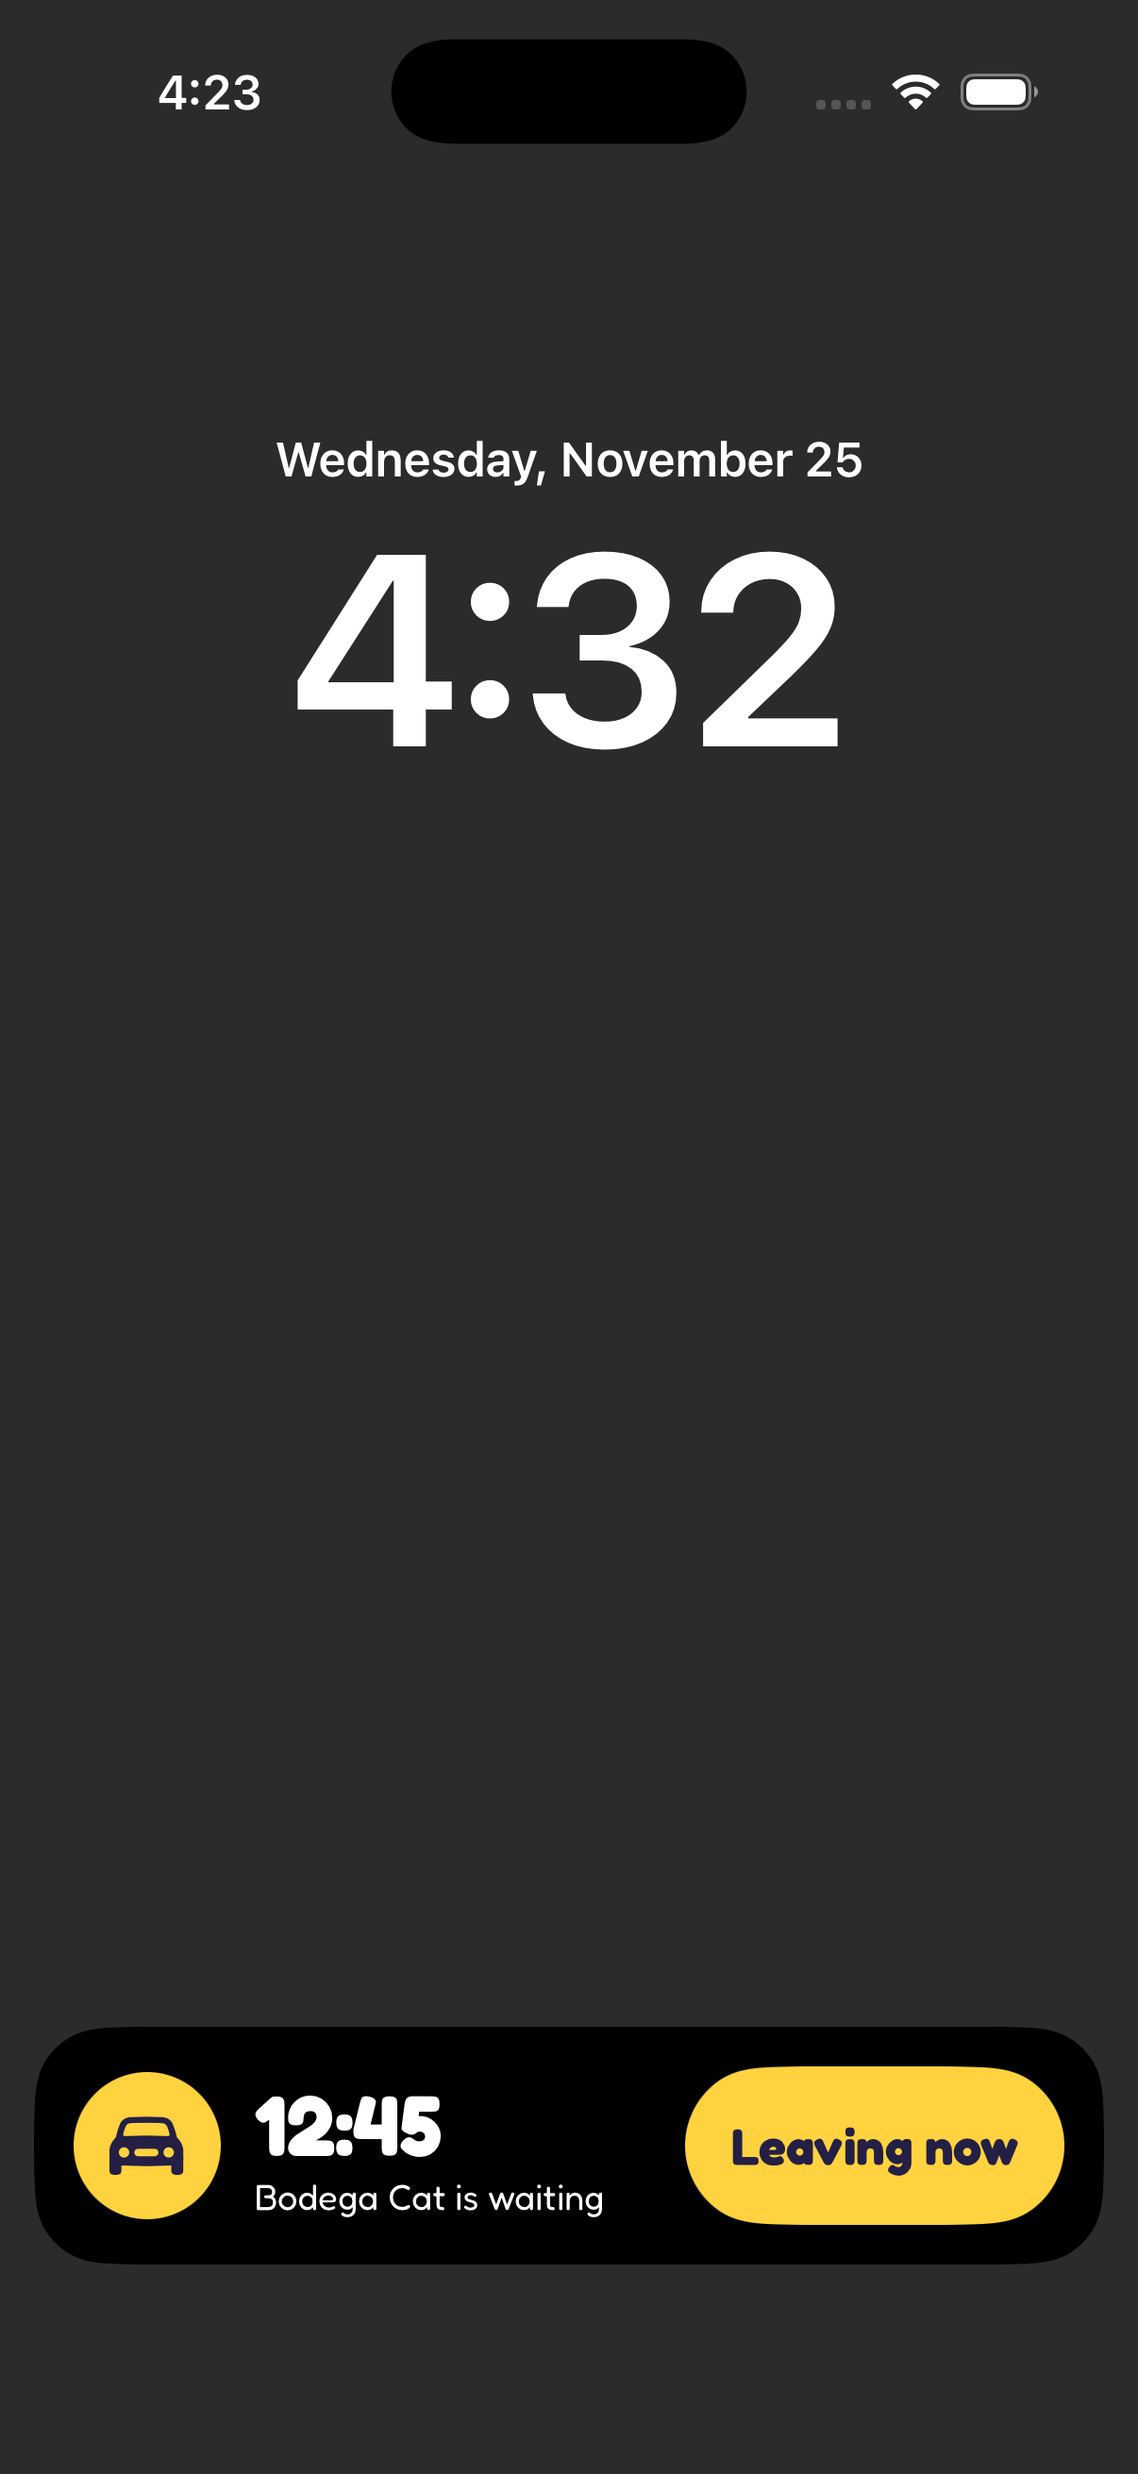
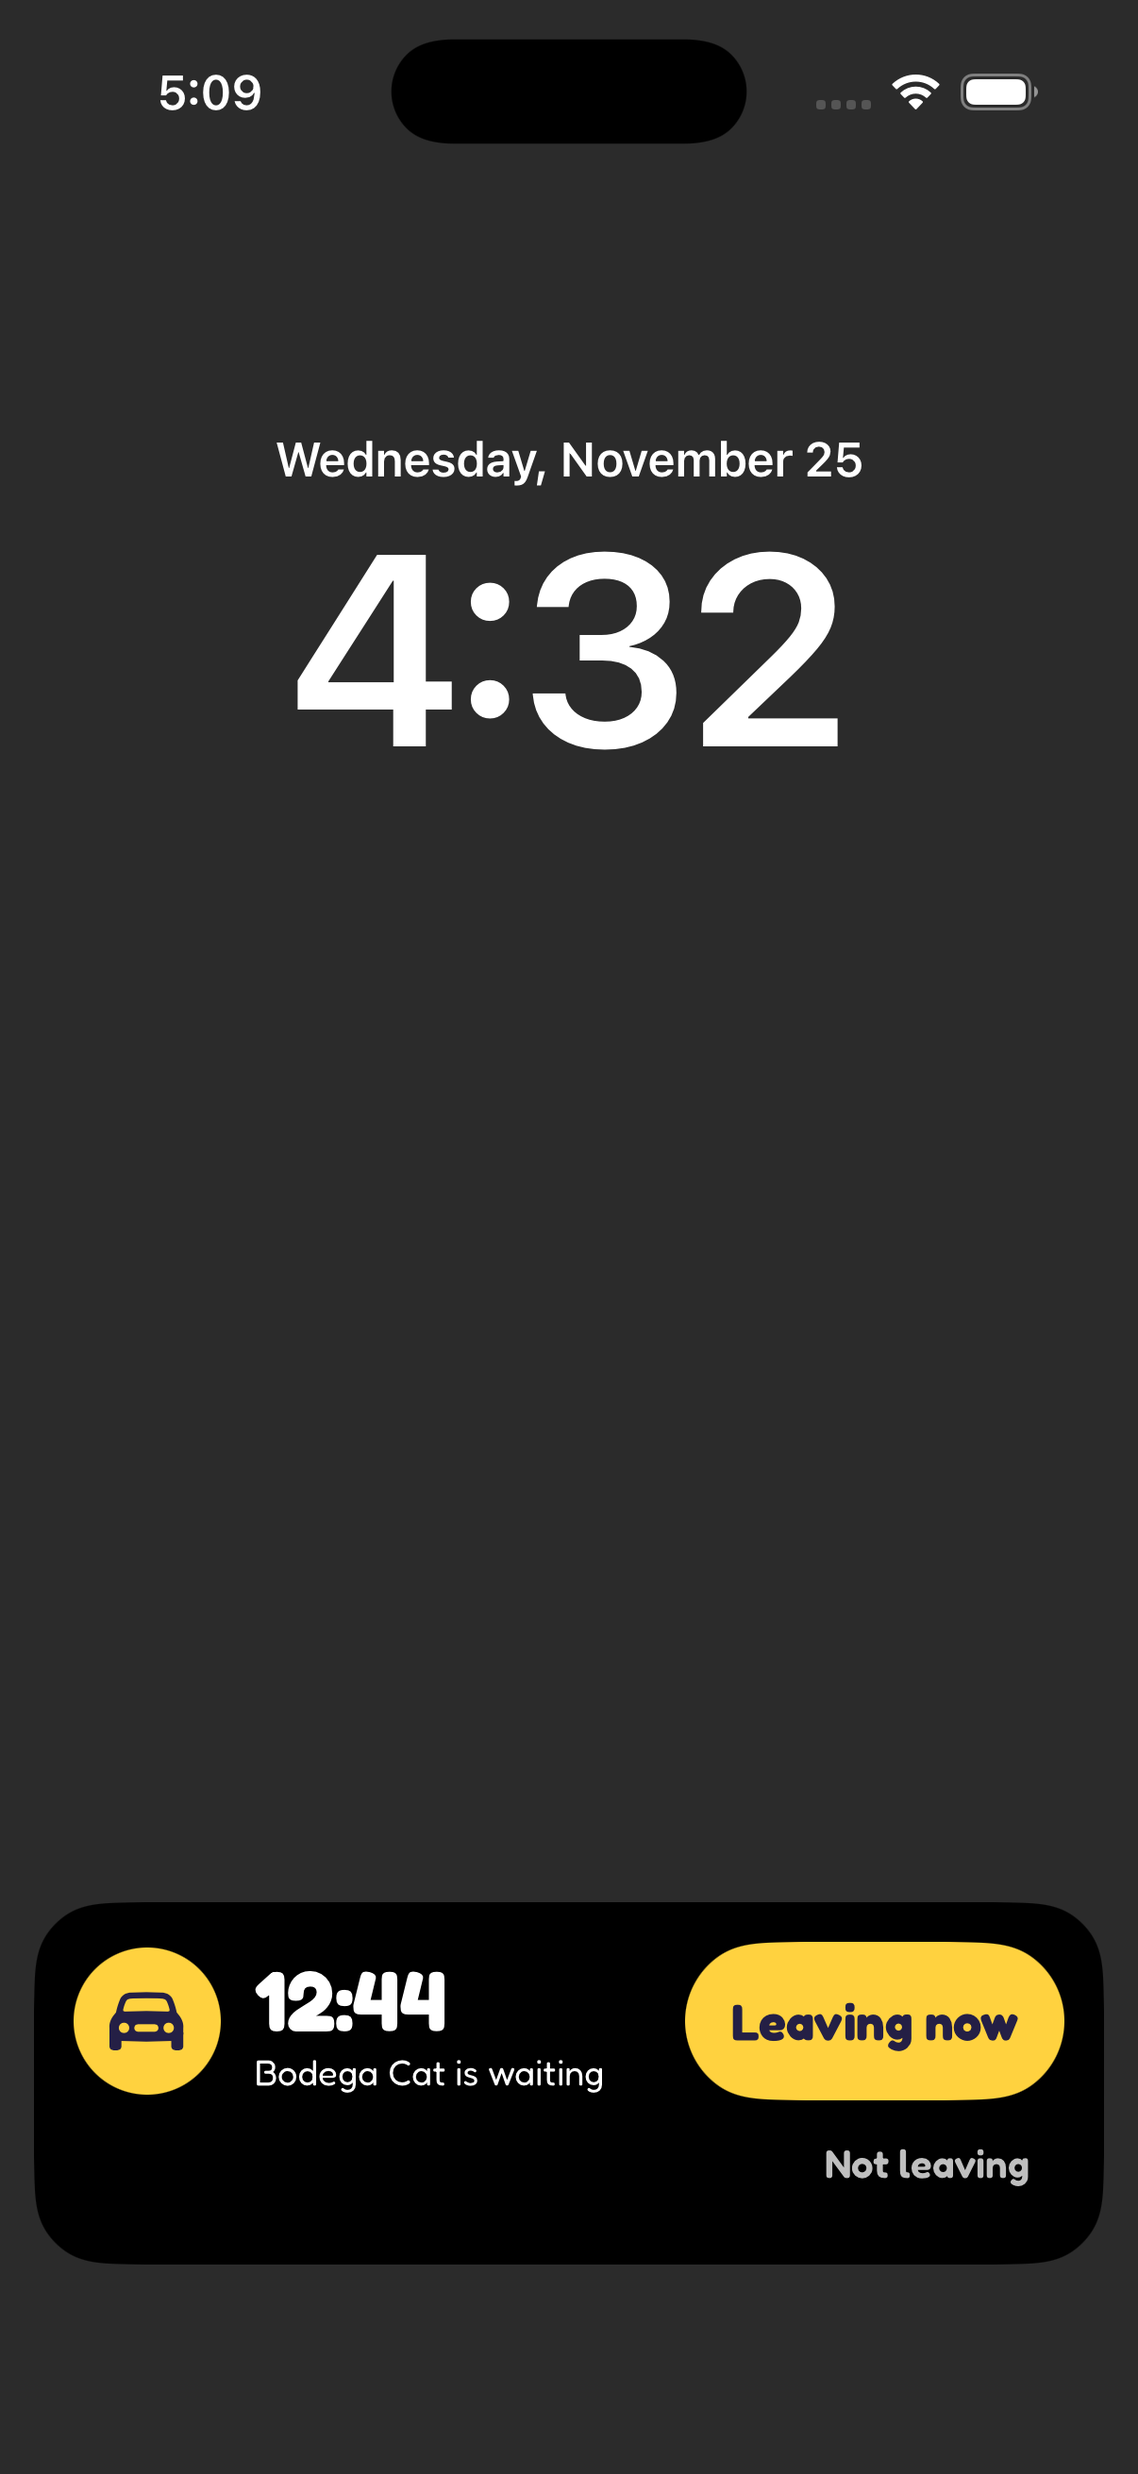
fix(ios): Stoop Phase 5b QA follow-ups (flag on only) (#211)
* fix(ios): Stoop Phase 5b QA follow-ups (flag on only)

Clip reminder copy true on every path, 'Remind me once', Stoop park-reminder
category wins over the address category, expanded island keeps Not leaving.

Claude-Session: https://claude.ai/code/session_01UjsLLE6XkkjF3CGfnhzwHR

* docs(qa): PR #211 Stoop Phase 5b follow-ups QA report

Claude-Session: https://claude.ai/code/session_01UjsLLE6XkkjF3CGfnhzwHR

---------

Changed region(s): [[0.0307, 0.7414, 0.9818, 0.9268], [0.1227, 0.0309, 0.2148, 0.0618]]

diff --git a/ios/WePark/WeParkTests/StoopPhase5bClipTests.swift b/ios/WePark/WeParkTests/StoopPhase5bClipTests.swift
@@ -110,8 +110,33 @@ final class StoopPhase5bClipTests: XCTestCase {
         XCTAssertEqual(WPClipCopy.chipTitle(.minutes(10)), "About 10 min")
         XCTAssertEqual(WPClipCopy.chipTitle(.minutes(60)), "About 1 hour")
         XCTAssertEqual(WPClipCopy.tell(name: "Bodega Cat"), "Tell Bodega Cat")
-        XCTAssertEqual(WPClipCopy.reminderOnly, "That's the only notification you'll get.")
+        XCTAssertEqual(WPClipCopy.allowReminder, "Remind me once")
         XCTAssertEqual(WPClipCopy.reminderTitle(around: "4:45"), "Still leaving around 4:45?")
         XCTAssertFalse(WPClipCopy.thanksTitle.contains("!"))
+    }
+
+    // MARK: Reminder copy matches the reminder plan
+
+    func testReminderCopy_isTrueForEveryPath() {
+        let copy = WPClipCopy.reminderOnly
+        XCTAssertTrue(copy.contains("one reminder"))
+        XCTAssertTrue(copy.contains("5 more min"), "the snooze reminder must be disclosed")
+        XCTAssertTrue(copy.contains("says thanks"), "the backend thanks alert must be disclosed")
+        XCTAssertFalse(copy.lowercased().contains("only notification"))
+        XCTAssertTrue(WPClipCopy.snoozeHint.contains("reminds you again"))
+    }
+
+    func testReminderPlan_isOneReminder_andSnoozeReplacesIt() {
+        let id = UUID()
+        let now = Date(timeIntervalSince1970: 1_800_000_000)
+        let leave = now.addingTimeInterval(20 * 60)
+        let first = HandoffReminderPlan.plan(stoop: true, passID: id, name: "Bodega Cat", leaveAt: leave, expiresAt: leave.addingTimeInterval(15 * 60), now: now)
+        XCTAssertEqual(first.count, 1, "copy says one reminder")
+        // "5 more min": the controller reschedules for leave + 5 min. Same identifier, so it replaces the
+        // pending one; a snooze after the first fired is the one extra reminder the copy discloses.
+        let later = leave.addingTimeInterval(5 * 60)
+        let snoozed = HandoffReminderPlan.plan(stoop: true, passID: id, name: "Bodega Cat", leaveAt: later, expiresAt: later.addingTimeInterval(15 * 60), now: now)
+        XCTAssertEqual(snoozed.count, 1)
+        XCTAssertEqual(snoozed.first?.identifier, first.first?.identifier)
     }
 }

diff --git a/ios/WePark/WePark/DesignSystem/WPPhase5bActivityShowcase.swift b/ios/WePark/WePark/DesignSystem/WPPhase5bActivityShowcase.swift
@@ -14,6 +14,7 @@
 //
 
 #if DEBUG
+import ActivityKit
 import SwiftUI
 
 struct WPPhase5bActivityShowcase: View {
@@ -27,8 +28,19 @@ struct WPPhase5bActivityShowcase: View {
 
     private static var window: UIWindow?
 
+    /// `-wp5bActivity real`: starts a REAL counting Live Activity (the system renders the lock screen and
+    /// the Dynamic Island with `wpDynamicIsland`), so expanded-island height can be measured on a
+    /// simulator instead of approximated. Only the flag-on build draws the Stoop layout.
+    private static func startRealActivity() {
+        guard ActivityAuthorizationInfo().areActivitiesEnabled else { return }
+        let attributes = SpotPassActivityAttributes(alias: "Bodega Cat", glyph: "bodega_cat", isClip: false)
+        let state = WPActivityState(phase: .counting, leaveAt: Date.now.addingTimeInterval(12 * 60 + 48), startedAt: Date.now, passID: UUID().uuidString.lowercased())
+        _ = try? Activity.request(attributes: attributes, content: ActivityContent(state: state, staleDate: nil), pushType: nil)
+    }
+
     var body: some View {
         Color.clear.allowsHitTesting(false).onAppear {
+            if name == "real" { Self.startRealActivity(); return }
             guard Self.window == nil,
                   let scene = UIApplication.shared.connectedScenes.compactMap({ $0 as? UIWindowScene }).first
             else { return }

diff --git a/ios/WePark/WeParkTests/StoopPhase5bActivityTests.swift b/ios/WePark/WeParkTests/StoopPhase5bActivityTests.swift
@@ -108,4 +108,22 @@ final class StoopPhase5bActivityTests: XCTestCase {
         // The shipping default follows the flag, which is false.
         XCTAssertTrue(NotificationCategoryRegistry.launchCategories(addressEnabled: false, spotPassEnabled: false).isEmpty)
     }
+
+    // MARK: Category precedence (address-anchored parking on)
+
+    @MainActor
+    func testCategory_stoopWinsOverAddressCategory_soWalkThereSurvives() {
+        let stoop = NotificationScheduler.categoryIdentifier(stoop: true, hasVerifiedAddress: true)
+        XCTAssertEqual(stoop, WPParkReminderCopy.categoryID)
+        XCTAssertEqual(WPParkReminderCopy.category().actions.map(\.identifier), [WPParkReminderCopy.actionWalkThere])
+        // The Stoop category hides the body (and so the address) when previews are off.
+        XCTAssertFalse(WPParkReminderCopy.category().hiddenPreviewsBodyPlaceholder.isEmpty)
+        XCTAssertEqual(NotificationScheduler.categoryIdentifier(stoop: true, hasVerifiedAddress: false), WPParkReminderCopy.categoryID)
+    }
+
+    @MainActor
+    func testCategory_flagOffUnchanged() {
+        XCTAssertEqual(NotificationScheduler.categoryIdentifier(stoop: false, hasVerifiedAddress: true), NotificationScheduler.addressCategoryID)
+        XCTAssertNil(NotificationScheduler.categoryIdentifier(stoop: false, hasVerifiedAddress: false))
+    }
 }

diff --git a/ios/WePark/Shared/Stoop/WPClipCopy.swift b/ios/WePark/Shared/Stoop/WPClipCopy.swift
@@ -31,8 +31,15 @@ nonisolated enum WPClipCopy {
 
     static let reminderHeadline = "One reminder, when it's time"
     static let reminderSub = "It has a Leaving now button, so you can answer from the lock screen."
-    static let reminderOnly = "That's the only notification you'll get."
-    static let allowReminder = "Allow one reminder"
+    /// True on every path: the plan is one reminder (`HandoffReminderPlan.makeSingle`); "5 more min" is the
+    /// driver's own request for another one (`snoozeHint`); the backend sends a visible "Thanks, neighbor!"
+    /// alert to a clip driver when the neighbor says thanks. Do not reword this back to "the only
+    /// notification": it is false for those two paths.
+    static let reminderOnly = "We'll send one reminder before you leave. If you ask for 5 more min, we'll remind you again. If your neighbor says thanks, you'll see that too."
+    /// Read by VoiceOver on the countdown's "5 more min" button.
+    static let snoozeHint = "Gives you five more minutes and reminds you again"
+    /// There is no system permission prompt here (the clip never prompts); the button just keeps the reminder.
+    static let allowReminder = "Remind me once"
     static let skip = "Skip"
 
     /// B13 driver reminder title ("Still leaving around 4:45?"). The notification and the B11.3 preview share it.

diff --git a/ios/WePark/Shared/Stoop/WPClipScreens.swift b/ios/WePark/Shared/Stoop/WPClipScreens.swift
@@ -78,7 +78,7 @@ struct WPClipReminderView: View {
         WPClipPage(onBack: onBack) {
             WPClipHeadline(text: WPClipCopy.reminderHeadline)
             WPClipSubline(text: WPClipCopy.reminderSub)
-            // A preview of the single notification the clip will send.
+            // A preview of the reminder the clip will send.
             VStack(alignment: .leading, spacing: 2) {
                 Text(WPClipCopy.appName)
                     .font(WP.Font.fredoka(14, .medium, relativeTo: .caption))
@@ -324,7 +324,7 @@ struct WPClipCountdownView: View {
     private var buttons: some View {
         let layout = typeSize.isAccessibilitySize ? AnyLayout(VStackLayout(spacing: WP.Space.s3)) : AnyLayout(HStackLayout(spacing: WP.Space.s3))
         return layout {
-            WPClipOutlineButton(title: WPClipCopy.fiveMore, isDisabled: !canExtend || mode == .sending, hint: "Gives you five more minutes", action: onFiveMore)
+            WPClipOutlineButton(title: WPClipCopy.fiveMore, isDisabled: !canExtend || mode == .sending, hint: WPClipCopy.snoozeHint, action: onFiveMore)
             WPClipOutlineButton(
                 title: WPClipCopy.notLeavingShort, isDisabled: mode == .sending,
                 hint: "Cancels your pass. \(name) will not be told.", action: onNotLeaving

diff --git a/ios/WePark/WePark/Services/NotificationScheduler.swift b/ios/WePark/WePark/Services/NotificationScheduler.swift
@@ -492,7 +492,9 @@ final class NotificationScheduler {
         if AppConstants.addressAnchoredParkingEnabled,
            let sentence = ParkingAddressCopy.notificationSentence(car.address) {
             content.body += " " + sentence
-            content.categoryIdentifier = Self.addressCategoryID
+            if let category = Self.categoryIdentifier(stoop: AppConstants.designSystemV2Enabled, hasVerifiedAddress: true) {
+                content.categoryIdentifier = category
+            }
         }
 
         content.sound = .default
@@ -508,6 +510,14 @@ final class NotificationScheduler {
         }
 
         return content
+    }
+
+    /// The category for a reminder whose body carries a verified address. Under Stoop the Stoop category
+    /// wins: it has the "Walk there" action AND its own hidden-previews placeholder, so the address stays
+    /// off the lock screen exactly as the address category does. Flag off: the address category.
+    nonisolated static func categoryIdentifier(stoop: Bool, hasVerifiedAddress: Bool) -> String? {
+        if stoop { return WPParkReminderCopy.categoryID }
+        return hasVerifiedAddress ? addressCategoryID : nil
     }
 
     // MARK: - Address-anchored parking category

diff --git a/ios/WePark/Shared/SpotPass/Driver/HandoffReminders.swift b/ios/WePark/Shared/SpotPass/Driver/HandoffReminders.swift
@@ -54,8 +54,9 @@ nonisolated enum HandoffReminderPlan {
         return candidates.filter { $0.fireDate > now.addingTimeInterval(1) && $0.fireDate < expiresAt }
     }
 
-    /// Stoop (DECISIONS #7): the clip schedules exactly ONE reminder, matching the copy "That's the only
-    /// notification you'll get." It fires `singleLead` before `leave_at` ("Still leaving around 4:45?",
+    /// Stoop (DECISIONS #7): the clip schedules exactly ONE reminder, matching the copy "We'll send one
+    /// reminder before you leave" (`WPClipCopy.reminderOnly`, which also discloses the "5 more min" snooze
+    /// and the backend thanks alert). It fires `singleLead` before `leave_at` ("Still leaving around 4:45?",
     /// round-2 B13). A pass that leaves in under two minutes fires as soon as it can; "Now" (leave_at at
     /// or before now) schedules nothing, because that pass opens straight on the Time-to-go screen.
     static let singleLead: TimeInterval = 2 * 60

diff --git a/ios/WePark/Shared/Stoop/WPActivityViews.swift b/ios/WePark/Shared/Stoop/WPActivityViews.swift
@@ -213,7 +213,9 @@ func wpDynamicIsland<Wrapper: View>(
         }
         DynamicIslandExpandedRegion(.bottom) {
             if counting {
-                VStack(spacing: 0) {
+                // Side by side, not stacked: measured on a simulator, the expanded island (84-160 pt tall
+                // per the HIG) clipped a 52 pt pill + 44 pt link stack and dropped "Not leaving".
+                HStack(spacing: 4) {
                     wrap(.leavingNow, AnyView(WPActivityPill(title: WPActivityCopy.leavingNow, height: 52, fillsWidth: true)))
                     wrap(.notLeaving, AnyView(WPActivityQuietLink()))
                 }

diff --git a/docs/qa/pr211-stoop-phase5b-followups-qa.md b/docs/qa/pr211-stoop-phase5b-followups-qa.md
@@ -1,0 +1,40 @@
+# PR #211 Stoop Phase 5b follow-ups QA, 2026-11-26
+
+**Reviewed:** `fix/stoop-phase5b-followups` at `e4fe4061`, against `docs/qa/pr208-stoop-phase5b-clip-qa.md` and `docs/qa/pr209-stoop-phase5b-liveactivity-qa.md`
+**Verdict:** MERGE-WITH-FOLLOWUPS (no blockers)
+
+## Summary
+The four fixes are correct and contained: clip copy now matches the reminder plan, "Walk there" wins over the address category under Stoop, the counting island lays out side by side, and the DEBUG-only real-activity launcher is compiled out of Release. Backend untouched (no `supabase/` in the diff). On a throwaway merge of origin/main + #210 + #211: all 4 schemes build, full WePark suite 3135 tests, 1 skipped, 0 failures (`-parallel-testing-enabled NO -jobs 4`). I did not run the suite on #211 alone (load). One likely related defect remains in the time-to-go island layout (finding 1).
+
+## Checklist
+- [x] Clip copy true on every path: `WPClipCopy.reminderOnly` discloses one reminder, the user-requested "5 more min" reminder, and the neighbor thank-you. Cross-checked with code: `HandoffReminderPlan.makeSingle` yields exactly one reminder; `ClipFlowController.extendFiveMinutes` calls `scheduleReminders`, which goes through `plan(stoop:)` and `UNHandoffReminderScheduler.schedule`, which first calls `cancelAll(passID:)` and re-adds under the same `leaveIdentifier`, so no duplicate pending reminders (also pinned by a test). The thank-you alert is backend behavior, left untouched, and is only sent when a push token exists (reminders on), so the copy shown on the reminders-on screen is accurate. Button now "Remind me once" (no system prompt exists in the clip). VoiceOver hint on "5 more min" discloses the re-remind.
+- [x] Backend untouched: confirmed by diff.
+- [x] "Walk there" precedence: new pure `NotificationScheduler.categoryIdentifier(stoop:hasVerifiedAddress:)`; Stoop returns `wepark_park_reminder_v2` (has `figure.walk` action, `hiddenPreviewsBodyPlaceholder = "Parking reminder"`), so the verified address (appended to the body) is still hidden when previews are hidden. Category is registered when the flag is on (`NotificationCategoryRegistry` `stoopParkReminders`), and coordinates ride in `userInfo` under Stoop. Flag off: address category still set exactly as before (tests cover both).
+- [x] Island / lock screen height: builder's real-system island screenshot (reviewed, `docs/qa/assets/stoop-phase5b/activity-island-dark.png`) shows header, "Leaving now" pill and "Not leaving" together. Claimed ~152 pt island and ~128 pt lock screen, inside 84-160. I could not reproduce live: on my fresh simulator `-wp5bActivity real` did not surface an activity (the app launched slowly under load 100-200 and no island appeared), so the height numbers are the builder's, not independently measured.
+- [x] Wiring: "Leaving now" (`wrap(.leavingNow, ...)`) and "Not leaving" (`wrap(.notLeaving, ...)`) still go through the same wrappers (unchanged); pill 52 pt, link `minHeight: 44, minWidth: 96`, both at least 44 pt.
+- [x] `-wp5bActivity real`: `WPPhase5bActivityShowcase.swift` is wrapped in `#if DEBUG ... #endif` (including the `ActivityKit` import and `startRealActivity`), and its only call site in `ContentView` is inside `#if DEBUG`. Absent from Release by construction (no Release binary inspected).
+- [x] Flag-off identical to main: all changes are Stoop copy, flag-gated views, or `categoryIdentifier(stoop:false)` which returns the previous values. Clip copy lives in `Shared/Stoop` and is Stoop-only. Suite passes flag-off.
+
+## Findings
+
+### Blocking
+None.
+
+### Significant
+- **#1 (significant) `ios/WePark/Shared/Stoop/WPActivityViews.swift` (`wpDynamicIsland`, `.bottom` region, `layout == .timeToGo` branch):** this branch still stacks a 52 pt "Leaving now" pill over a row of two 44 pt pills (6 pt gap, about 102 pt) inside the expanded island. The PR's own measurement says the counting stack of 52 + 44 (96 pt) was already clipped and dropped "Not leaving"; the time-to-go stack is taller. Likely "5 more min" / "Not leaving" clip in the time-to-go expanded island (the phase where the driver most needs them). Not verified live (no island on my sim), so confirm with `-wp5bActivity real` plus a time-to-go state before ship. Owner `@ios-engineer`.
+
+### Minor
+- **#2 (minor) copy length:** `reminderOnly` is now three sentences in 15 pt muted on the clip reminder screen; confirm it still sits above the pinned buttons at AX sizes (not checked; clip showcase not run by me).
+- **#3 (minor, backend, logged):** the backend's "Thanks, neighbor!" keeps the exclamation mark the client retired (builder already noted this for `@backend-data`).
+- **#4 (minor) not verified:** island height measurements; Release binary string absence.
+
+## Smoke tests run
+- Build: WePark (build-for-testing), WeParkClip, ClipLiveActivities, WeParkLiveActivities all succeeded on the combined merge.
+- Full suite on combined merge: 3135 executed, 1 skipped, 0 failures.
+- Code review of clip flow controller, reminder scheduler, notification category registry, scheduler category selection.
+- Flag-on app launched on iPhone 17 Pro Max sim with `-wp5bActivity real`: no activity rendered (see above); inconclusive.
+
+## What's working
+Copy and plan are now in agreement and test-pinned; the snooze reuses the same identifier; the category fix keeps the address off the lock screen; the DEBUG launcher is properly fenced.
+
+**MERGE-WITH-FOLLOWUPS** (finding 1 should be checked live; it only affects the flag-on time-to-go island).
